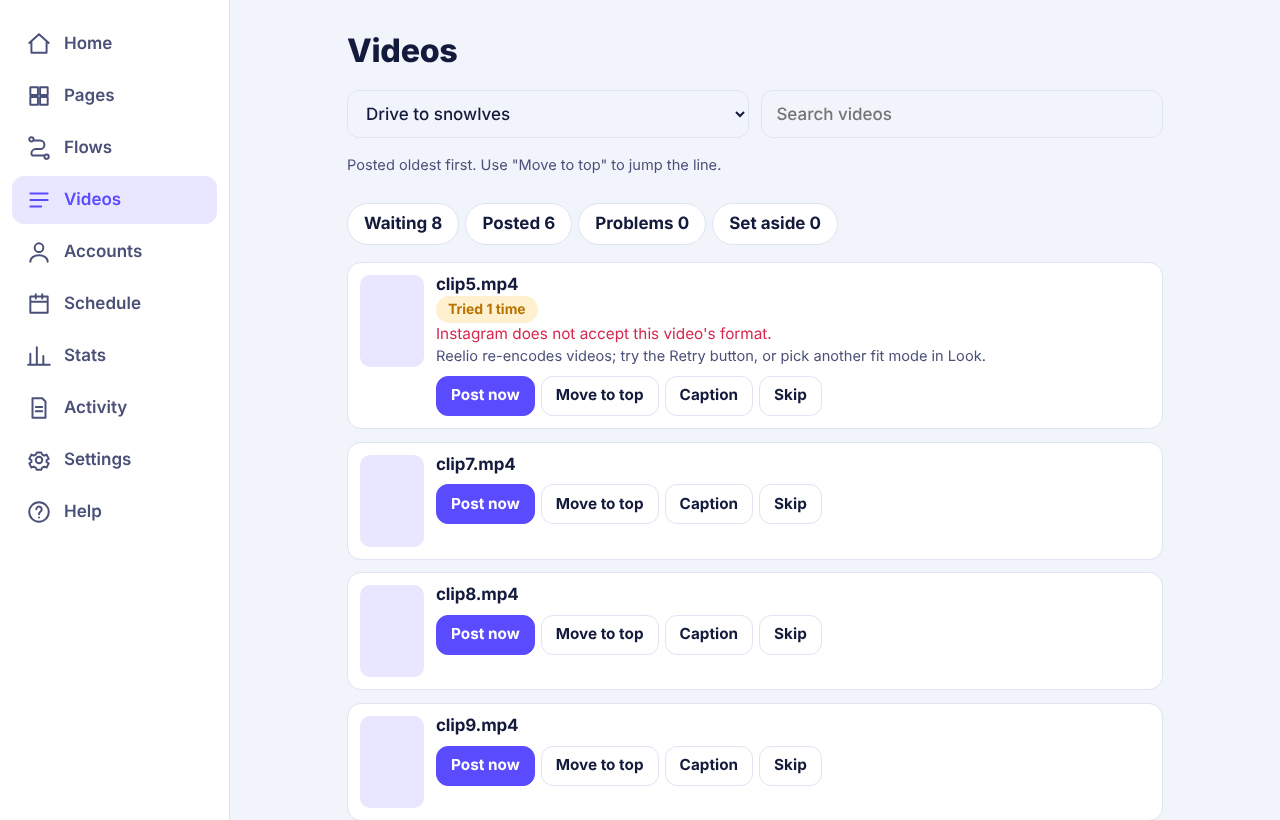
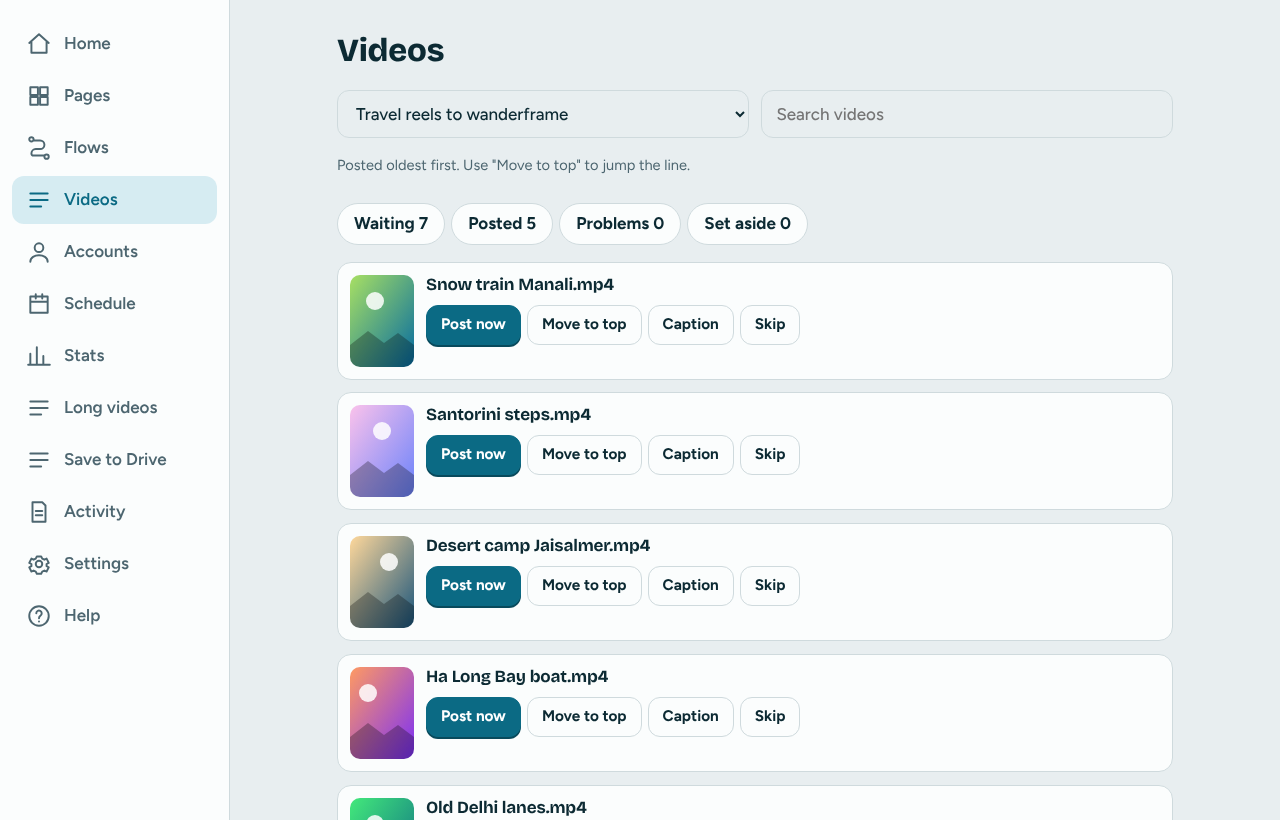
Add files via upload

diff --git a/README.md b/README.md
@@ -1,37 +1,67 @@
+<div align="center">
+
+<img src="web/icon.svg" width="72" alt="Reelio logo">
+
 # Reelio
 
-Your own videos, posted automatically to Instagram Reels and YouTube Shorts, from the cloud. Your PC can stay off.
-You manage everything from a phone-friendly web app. No code, no config files.
+**Your videos post themselves.**
+Schedule Instagram Reels and YouTube Shorts for every page and channel you run. It keeps going while your phone and laptop are off.
 
-## How it works (the short version)
-- **This repo (public)** holds the app (`web/`, shown on GitHub Pages) and the worker (`worker/`, run by GitHub Actions every 5 minutes).
-- **A second, private repo `reelio-data`** holds your settings, queue, the never-repost ledger and your logins (encrypted with your passphrase).
-- The app edits the private repo through GitHub's API. The worker reads it, posts what is due, and saves the result.
-- Instagram only accepts a public video address, so each video waits on Cloudinary for about a minute and is deleted right after posting.
+[Live demo](https://krvats.github.io/reelio/app.html?demo=1) · [Website](https://krvats.github.io/reelio/) · [Setup guide](docs/SETUP_CHECKLIST.md) · [Selling guide](docs/SELLING.md)
 
-Any source can feed any target, so you choose per "flow":
-Google Drive, a YouTube channel, your own Instagram, or files uploaded from the app, going to Instagram Reels or YouTube Shorts.
+<img src="docs/screens/desktop-home.png" alt="Reelio home screen" width="720">
 
-## One-time setup (about 15 minutes)
-Everything below is also shown, with buttons, inside the app's setup page.
+</div>
 
-1. **Create the public repo** `reelio` on GitHub and upload the contents of this folder (Add file, Upload files).
-2. **Turn on the app page:** repo Settings, Pages, Source = **GitHub Actions**. The page appears at `https://YOURNAME.github.io/reelio/`.
-3. **Create a private repo** `reelio-data` (empty is fine). If you are moving from the old tools, upload the files from `reelio-data-seed/` into it. That keeps your 7 posted Reels and 9 uploaded Shorts from ever being posted again.
-4. **Make a GitHub key:** github.com/settings/personal-access-tokens/new. Only select repositories: `reelio` and `reelio-data`. Permissions: Contents = Read and write, Actions = Read and write.
-5. **Add two secrets** in `reelio` > Settings > Secrets and variables > Actions: `DATA_PAT` = the key from step 4, `REELIO_KEY` = a passphrase you invent (write it down).
-6. **Open the app page**, paste the key and the same passphrase. The setup page checks every step.
-7. **Connect accounts** in the app: Instagram (token from the Meta developer dashboard), Cloudinary (free), Google (Drive and YouTube), and optionally Telegram for alerts.
-8. **Create or review your flows**, press Check now, then Help > Why is it failing? to confirm everything is connected.
+## What it does
 
-Rotate first: the access tokens, API keys and client secrets that were in your old zips and chats should be regenerated, then entered only in the app.
+- **Many pages, one screen.** Every Instagram page and YouTube channel with today's progress. Bulk pause, resume and posts-a-day.
+- **Any source to any target.** Google Drive, YouTube channels or chosen videos, Instagram pages, or uploads, going to Instagram Reels or YouTube Shorts.
+- **Full control per post.** Up to 100 posts a day, time windows, days of the week, days off, natural jitter, per-video captions, move, skip, post now.
+- **Captions and looks.** Fixed, random or table captions, hashtag sets, filters, blur/crop/pad fit, watermark, cover frame.
+- **Never twice, never lost.** A permanent ledger stops duplicates (by id and file hash). One bad video never blocks a queue.
+- **Long videos and Save to Drive.** Cut hour-long videos and live streams into clips; copy videos you may use into Drive.
+- **Keeps itself running.** Late GitHub schedules are detected and restarted; blocked YouTube downloads rotate through a pool of saved cookies.
+- **Plain-language help.** Every failure says why and what to tap. Telegram alerts. Stats with best posting hours.
+- **Private.** Logins are encrypted (AES-256-GCM, PBKDF2) in the browser before they are saved. Official APIs only.
+- **Made for phones.** Installable app, light and dark, text size, key screens in Hindi, command palette (Ctrl/Cmd+K).
+
+## Try it without signing in
+
+Open `app.html?demo=1` on the site. It runs the real screens on sample data in your browser. Nothing is saved or posted.
+
+## How it is built
+
+| Part | Where | Notes |
+|---|---|---|
+| Website | `web/index.html`, `site.css`, `site.js` | Static, no build, self-hosted fonts |
+| App | `web/app.html`, `web/js/` | Vanilla ES modules, PWA, demo mode |
+| Worker | `worker/reelio/` | Python 3.12, runs on GitHub Actions every 5 minutes |
+| Data | private repo `reelio-data` | Settings, queues, ledger, encrypted logins |
+| Optional services | `license/`, `api/`, `keepalive/` | Cloudflare Workers: access control, hosted accounts, extra wake-ups |
+
+## Setup (about 15 minutes, once)
+
+Follow [docs/SETUP_CHECKLIST.md](docs/SETUP_CHECKLIST.md) or the setup screen inside the app. In short: publish this repo with Pages set to GitHub Actions, create a private `reelio-data` repo, make a GitHub key, add the secrets `DATA_PAT` and `REELIO_KEY`, then connect your accounts in the app.
+
+The site's "Message us" buttons open an Instagram DM to @kr5na_ (set in `web/app-config.js`).
 
 ## Honest limits
-- GitHub's schedule runs about every 5 minutes (sometimes late). Instagram and Meta limit how fast apps can post, so more is not faster. The default of 50 a day per account is the high end; if Meta shows "Application request limit reached" Reelio waits and resumes by itself.
-- Instagram allows at most 100 API posts per 24 hours per account. YouTube's API allows only about 6 uploads a day for new projects.
-- YouTube may block downloads from cloud servers. Reelio then switches to your next saved cookie, rests the ones that fail (a blocked one comes back after its timer; a logged-out one does not), and only pauses that flow if every way fails, then it tells you to add cookies (Accounts > YouTube cookies, many at once) or use a backup Drive folder.
-- Only use videos you own or have permission to post.
 
-## Developing
-`cd worker && python -m unittest discover -s tests` runs 36 tests against fake Instagram, Drive, YouTube, Cloudinary and Telegram servers.
-`python tools/ui_demo.py` serves the app with demo data and a fake GitHub for testing the interface.
+- Instagram allows 100 API posts per 24 hours per account. New YouTube projects upload about 6 videos a day.
+- GitHub's schedule is best effort and can be late; Reelio catches up the same day.
+- Only post videos you own or have permission to use.
+
+## Development
+
+```
+cd worker && python -m unittest discover -s tests     # worker tests against fake Instagram/Drive/YouTube servers
+cd license && node --test test/                       # access service tests
+python tools/screens.py                                # regenerate screenshots and site images (needs Playwright)
+```
+
+For contributors and AI assistants: read [CLAUDE.md](CLAUDE.md) first.
+
+## Licence
+
+All rights reserved. The source is visible, but nobody may run, copy or sell it without written permission. See [LICENSE](LICENSE) and [docs/SELLING.md](docs/SELLING.md). Access: [Instagram @kr5na_](https://ig.me/m/kr5na_).

diff --git a/docs/SELLING.md b/docs/SELLING.md
@@ -1,0 +1,24 @@
+# Selling Reelio: what is true, and what to do
+
+## The honest part
+Reelio's code is public so GitHub Pages and Actions are free. That means anyone can download it, and an AI can rebuild it. Nothing on a public repo can stop that. What you can sell is what a copy does not include:
+
+1. **Done-for-you setup.** Most people will not do 15 minutes of GitHub, Meta and Google steps. You do it for them (the in-app setup guides you).
+2. **Hosted accounts.** Posting runs on infrastructure you control, users just log in with email (`api/`, `docs/TUTORIAL.md` Part 3). Here access can really be switched off.
+3. **Support and upkeep.** Instagram/YouTube change things; you keep it working, and you hold the Cloudinary/Google/Meta setup for them.
+4. **Licence.** The repo is All Rights Reserved: nobody may run or resell it without your written permission. This is your legal lever, but it only works if you act on copies you find; it is not legal advice and cannot physically stop copying. To change it, replace `LICENSE`.
+
+If you want less copying, make the worker (`worker/`, `api/`, `license/`) a **private** repo and keep only `web/` public. GitHub Pages on a private repo needs a paid GitHub plan, and private Actions minutes are limited, so this is a cost trade-off.
+
+## How people get access (no payment on the site)
+The site has no prices or checkout. "Message us" opens an Instagram DM to @kr5na_ (`contactUrl` in `web/app-config.js`). Suggested flow:
+1. Person messages you with their page and channel counts.
+2. You agree price and take payment yourself (UPI etc.).
+3. Self-host: you create their setup or walk them through it. Hosted: create their account (`admin.html`) or grant access with the license service (`web/upi-admin.html`, `license/README.md`).
+4. They open the app (`app.html`) and connect accounts.
+
+## Before you announce
+- Terms, Privacy and Copyright pages are filled in (brand only, India, contact via Instagram @kr5na_, refund: full before setup starts, none after delivery, 7-day case-by-case). A lawyer review is still wise once you earn real money.
+- Rotate any tokens that were ever in old zips or chats.
+- Meta and Google will not approve a public app without a registered business, so sell the bring-your-own-keys model (each user creates their own Meta and Google app).
+- Test one full flow live: Instagram publish via Cloudinary, YouTube upload, Telegram alert.

diff --git a/CONTEXT.md b/CONTEXT.md
@@ -52,3 +52,9 @@ GitHub's cron is best-effort (late or skipped runs). Three independent wake-ups,
 
 ## Parallel + always-on engine (v1.8)
 `Engine._run_routes`: routes are grouped by target account (`route.target.conn`); each group is one thread (max 16), flows inside a group run in order. `Store` methods are wrapped in one RLock (bottom of store.py) and `Engine._lk` guards counters/alerts. `live.py` (enabled by env `REELIO_LIVE=1`, set by tick.yml when action is `run`): loop of `Engine(..., live=True)` passes; live mode posts max 1 per route per pass, skips a route while the account's `last_post_at` is younger than gap (5 s if the item is Post now), never sleeps for rate limits (cooldown backoff handles it), sweeps Cloudinary at most every 10 min, skips writing status when nothing happened (<120 s). Between idle passes: sleep 15 s + `store.refresh()` (git pull) so app commands arrive. Run ends with ~8 min left, writes `more=true`, workflow dispatches the next run. Set config `parallel: false` to go back to one-by-one. Not tested live: real GitHub run length/handover, Instagram behaviour under many simultaneous accounts, git push contention. Stats page: selector (all / account / flow) in `v_more.js`; views/likes exist only for Instagram.
+
+
+## Site + app split (v1.2)
+`web/index.html` is the marketing site (site.css, site.js); the app is `web/app.html` (manifest start_url, SW shell). Google OAuth redirect stays the FOLDER address (`…/reelio/`): index.html forwards `?code=` to app.html. Demo mode: `app.html?demo=1` (`js/demo.js`, in-memory sample data). `sw.js` has `__BUILD__` stamped by pages.yml. app.js caches last config/status in localStorage (`reelio.core_cache_v1`) and repaints Home only if the fresh data differs. Theme: light-table (teal brand, red only as the grease-pencil mark on the site). Not tested live: GitHub Pages deploy of the new layout, SW update toast on a real redeploy.
+
+Owner decisions (Oct 2026): contact = Instagram DM @kr5na_ (X and Reddit @kr5na_ in footer); legal pages brand-only, India; refunds: full before setup starts, none after delivery; licence All Rights Reserved; payments handled off-site, none on the website.

diff --git a/docs/CHANGELOG.md b/docs/CHANGELOG.md
@@ -18,3 +18,11 @@
 - Cookie Sync add-on (v1.6): Chrome/Edge extension in `tools/cookie-sync/` (also served as `web/downloads/reelio-cookie-sync.zip`): one-click Connect reads the app's login from the open Reelio tab, then every hour pushes this browser's YouTube cookies (own slot per browser profile, label, other logins untouched) into the encrypted secrets; worker treats a refreshed export of the same profile as a fresh cookie (rest timer reset); 3 cross-language tests
 - Reliability (v1.7): Cloudflare keep-alive Worker (`keepalive/`) starts the posting worker every 5 min and long videos hourly, so GitHub's late or skipped cron no longer matters; second alarm `watchdog.yml`; in-app self-heal (`web/js/heal.js`); Long videos tab shows an instant "Adding..." card, live worker status, waiting requests, and the Start button no longer dies after an error (it used `e.currentTarget` after an await)
 - Parallel + always-on (v1.8): every account posts in its own parallel lane (flows sharing an account stay in order); `REELIO_LIVE=1` keeps one workflow run alive ~50 min in a loop (`worker/reelio/live.py`): one post per account per pass, pause between an account's posts is checked not slept, data repo pulled every 15 s so Post now goes out within about 15 s, quiet passes do not spam commits, next run chained with no gap. Store methods are thread-locked. Stats page can switch between everything, one account, one flow, with an all-flows table. 6 new tests (`test_parallel.py`), fake Instagram container ids made thread-safe
+
+## 1.2.0
+- New website (`index.html`) with film-strip hero, day planner, Hindi toggle, screenshots; app moved to `app.html`
+- Light-table theme for app, site and legal pages; self-hosted fonts (no Google Fonts)
+- Speed: cached app shell (service worker rewrite, stamped per publish), instant paint from last data, lazy long lists, no fixed gradient layer
+- Demo mode `app.html?demo=1` with sample data; screenshots now generated from it
+- Re-connected Pages tab, command palette and hosted login in `app.js`; OAuth redirect stays the folder address
+- LICENSE (PolyForm Noncommercial), docs/SELLING.md, README rewrite

diff --git a/docs/screens/INDEX.md b/docs/screens/INDEX.md
@@ -1,4 +1,4 @@
-# Screens (auto-generated by tools/screens.py from fake demo data)
+# Screens (auto-generated by tools/screens.py from the built-in demo data)
 
 - desktop-accounts.png
 - desktop-flows.png
